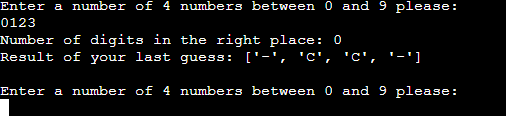
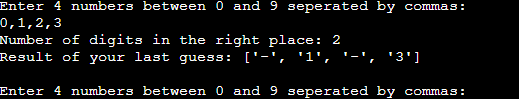
doc: changes to how to play and images for how to play in accordance with changes to the input method

diff --git a/README.md b/README.md
@@ -61,20 +61,20 @@ The main audience for this game is players who enjoy logic puzzles or the probab
 
 - Mastermind:
     - You will be asked to chose the standard or custom game. Only the standard game will keep track of highscore. If you choose the custom game, you will get to select how many numbers to guess, and the range of numbers the game will use.
-    - When you have selected game type, the game will randomly generate a secret code for you. You will now be asked to enter a 4 digit number containing your guess.
+    - When you have selected game type, the game will randomly generate a secret code for you. You will now be asked to enter 4 numbers (in standard game) seperated by commas.
     - The game will tell you how you did by showing result, and it wil look like this: <br>
     ![mastermind guess](https://github.com/oljung/portfolio-project-three/blob/main/assets/readme-images/mastermind-guess.png)
-    - A number will mean that the number is correct, in this picture none of the guesses were correct.
-    - A 'C' will mean that the number is in the code, but in the wrong position
+    - A number will mean that the number is correct, in this picture the numbers 1 and 3 are correct.
+    - A 'C' will mean that the number is in the code, but in the wrong position.
     - A '-' means that the number is not included in the code.
     - Evaluate your result and make a new guess, and continue until you beat the code, the game will then tell you how you did and ask if you want another round, like this:<br>
     ![mastermind win](https://github.com/oljung/portfolio-project-three/blob/main/assets/readme-images/mastermind-won.png)
 - Poker:
     - At the start of the game, you will be dealt 5 random cards, and the goal is to get the best poker hand.
     - You will be shown you hand, and asked to if you want to swap any cards. Here you can give a number between 0 (no cards will be swapped) and 5, swapping all cards.
-    - Next you will enter a number, the lenght of the amount of cards you want to swap. If you want to swap card to, enter 2. If you want to swap card 1 and 4, enter 14. It will look like this:<br>
+    - Next you will enter a series of numbers equal to the amount of cards you want to swap, serperated by commas. If you want to swap card two, enter 2. If you want to swap card 1 and 4, enter 1,4. It will look like this:<br>
     ![poker swap](https://github.com/oljung/portfolio-project-three/blob/main/assets/readme-images/poker-swap.png)
-    - As you can see, I decided to swap 2 cards, cards 1 and 3. After that new cards are dealt and the hand is sorted again.
+    - As you can see, I decided to swap 2 cards, cards 2 and 3, thus improving my hand to a pair of Kings. After that new cards are dealt and the hand is sorted again.
     - After you swap the game will compare your hand against the hand of the AI and display both hands and declare a winner. It will look like this:<br>
     ![poker game over](https://github.com/oljung/portfolio-project-three/blob/main/assets/readme-images/poker-won.png)
     - Now you can decide to play another game or return to the main menu.
